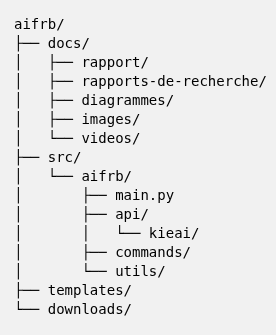
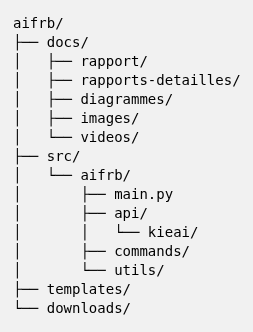
Update repository structure image

Changed region(s): [[0.0553, 0.0301, 0.9684, 0.9639]]

diff --git a/README.md b/README.md
@@ -8,7 +8,7 @@ This repository contains my bachelor's thesis project. This work aims to underst
 aifrb/
 ├── docs/
 │   ├── rapport/                  # Main report and chapter sources
-│   ├── rapports-detailles/    # Topic-specific research reports
+│   ├── rapports-detailles/       # Topic-specific detailed reports
 │   ├── diagrammes/               # Draw.io architecture and workflow diagrams
 │   ├── images/                   # Images used in the reports
 │   └── videos/                   # Videos used in the reports